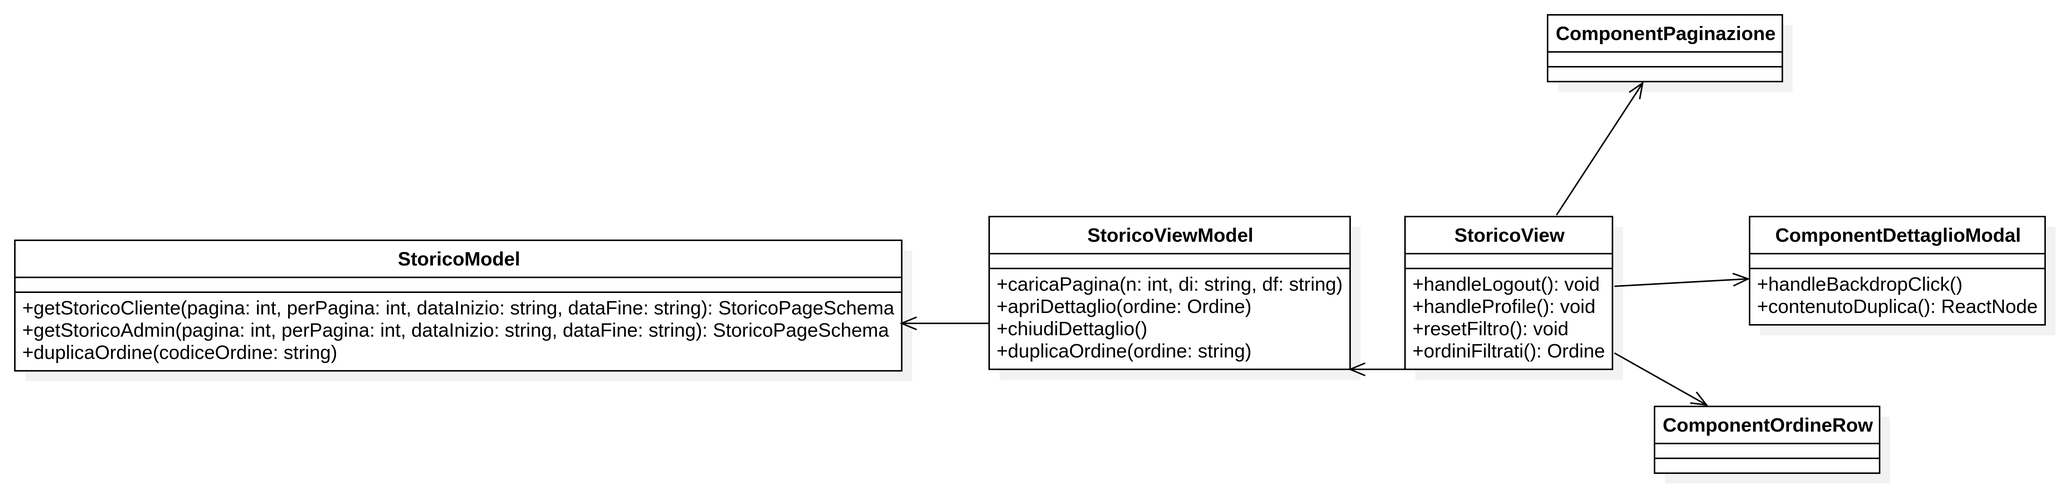
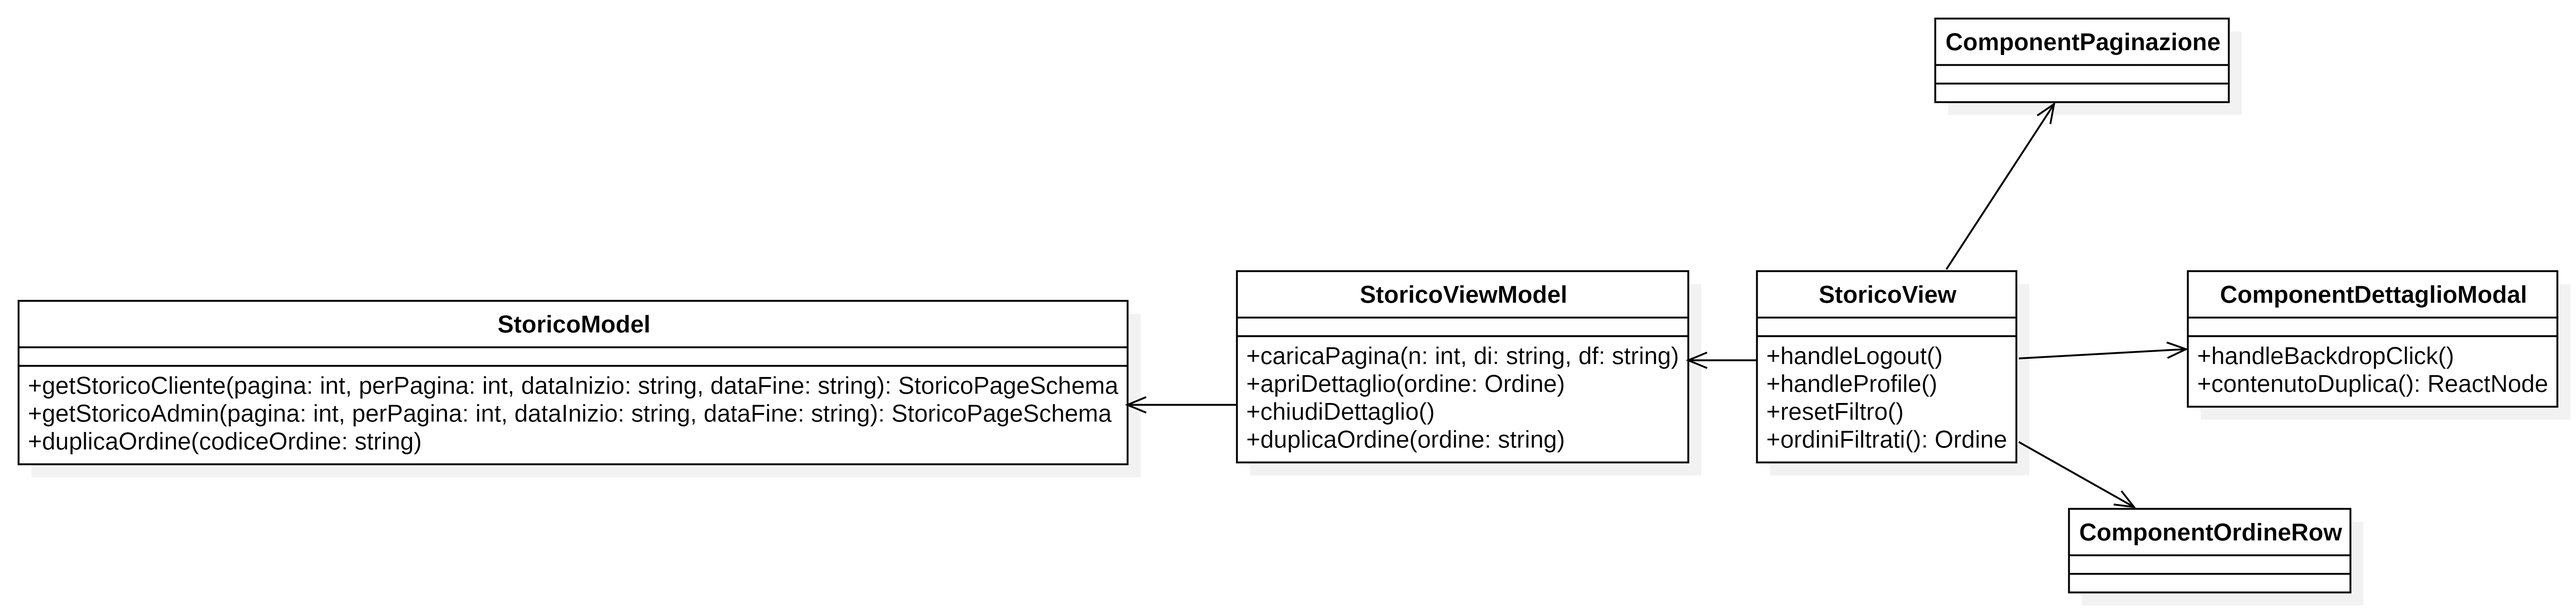
Terminato storico

diff --git a/src/PB/Documenti Esterni/Specifica Tecnica/content/diagrammi_classi/storico_backend.tex b/src/PB/Documenti Esterni/Specifica Tecnica/content/diagrammi_classi/storico_backend.tex
@@ -15,7 +15,7 @@ Per la definizione di ChatService, vedere \ref{chat_service}
 \subsubsubsection{StoricoController}
 \begin{figure}[H]
 	\centering 
-	\includegraphics[width=0.4\textwidth]{SpecificaTecnica/Storico/StoricoController}
+	\includegraphics[width=1\textwidth]{SpecificaTecnica/Storico/StoricoController}
 	\caption{Storico Ordini: StoricoController}
 \end{figure}
 
@@ -46,7 +46,7 @@ Delega la logica applicativa a \textit{StoricoService}, ottenuto tramite depende
 \subsubsubsection{StoricoService}
 \begin{figure}[H]
 	\centering 
-	\includegraphics[width=0.4\textwidth]{SpecificaTecnica/Storico/StoricoService}
+	\includegraphics[width=0.9\textwidth]{SpecificaTecnica/Storico/StoricoService}
 	\caption{Storico Ordini: StoricoService}
 \end{figure}
 
@@ -77,7 +77,7 @@ Si occupa di costruire le pagine di risposta, applicare i filtri per data e gest
 \subsubsubsection{StoricoAdapterPort}
 \begin{figure}[H]
 	\centering 
-	\includegraphics[width=0.4\textwidth]{SpecificaTecnica/Storico/StoricoAdapterPort}
+	\includegraphics[width=0.9\textwidth]{SpecificaTecnica/Storico/StoricoAdapterPort}
 	\caption{Storico Ordini: StoricoAdapterPort}
 \end{figure}
 
@@ -117,17 +117,12 @@ Riceve una sessione del database alla costruzione e la utilizza per istanziare \
 \paragraph{Metodi e funzioni}
 \begin{itemize}
 	\item \textbf{\_\_init\_\_(db: Session)} - si occupa di inizializzare l'adattatore ricevendo la sessione del database e istanziando un'istanza di tipo StoricoRepository
-	\item \textbf{get\_ordini\_by\_username(username: string, pagina: int, per\_pagina: int, data\_inizio: date, data\_fine: date): List[Ordine]} - delega a \textit{StoricoRepository} il recupero degli ordini paginati di un utente specifico.
-	\item \textbf{get\_all\_ordini(pagina: int, per\_pagina: int, data\_inizio: date, data\_fine: date): List[Ordine]} - delega a \textit{StoricoRepository} il recupero di tutti gli ordini paginati.
-	\item \textbf{get\_prodotti\_by\_ordine\_ids(ordine\_ids: List[int])} - delega a \textit{StoricoRepository} il recupero dei prodotti associati a una lista di identificatori di ordini.
-	\item \textbf{duplica\_ordine(codice\_ordine: string, username: string): Ordine} - delega a \textit{StoricoRepository} la duplicazione di un ordine esistente.
-	\item \textbf{get\_all\_products\_by\_username(username: string): OrdCliDet} - delega a \textit{StoricoRepository} il recupero dei prodotti acquistati da un utente con relativa frequenza.
-\end{itemize}
+	\end{itemize}
 
 \subsubsubsection{StoricoRepository}
 \begin{figure}[H]
 	\centering 
-	\includegraphics[width=0.4\textwidth]{SpecificaTecnica/Storico/StoricoRepository}
+	\includegraphics[width=0.9\textwidth]{SpecificaTecnica/Storico/StoricoRepository}
 	\caption{Storico Ordini: StoricoRepository}
 \end{figure}
 

diff --git a/src/PB/Documenti Esterni/Specifica Tecnica/content/diagrammi_classi/storico_frontend.tex b/src/PB/Documenti Esterni/Specifica Tecnica/content/diagrammi_classi/storico_frontend.tex
@@ -21,10 +21,10 @@ Utilizza i componenti \textit{ComponentOrdineRow}, \textit{ComponentDettaglioMod
 
 \paragraph{Metodi e funzioni}
 \begin{itemize}
-	\item \textbf{handleLogout(): void} - esegue il logout dell'utente chiamando l'endpoint \textit{/api/auth/logout} e reindirizza alla pagina principale.
-	\item \textbf{handleProfile(): void} - apre il pannello del profilo utente impostando \textit{profileOpen} a \textit{true}.
-	\item \textbf{resetFiltro(): void} - azzera i campi \textit{dataInizio} e \textit{dataFine} e ricarica la prima pagina senza filtri.
-	\item \textbf{ordiniFiltrati: Ordine[]} - restituisce la lista degli ordini filtrata in base alle date \textit{dataInizio} e \textit{dataFine} correntemente impostate.
+	\item \textbf{handleLogout()} - esegue il logout dell'utente chiamando l'endpoint \textit{/api/auth/logout} e reindirizza alla pagina principale.
+	\item \textbf{handleProfile()} - apre il pannello del profilo utente impostando \textit{profileOpen} a \textit{true}.
+	\item \textbf{resetFiltro()} - azzera i campi \textit{dataInizio} e \textit{dataFine} e ricarica la prima pagina senza filtri.
+	\item \textbf{ordiniFiltrati: Ordine} - restituisce la lista degli ordini filtrata in base alle date \textit{dataInizio} e \textit{dataFine} correntemente impostate.
 \end{itemize}
 
 \subsubsubsection{ComponentPaginazione}
@@ -59,7 +59,7 @@ La modale si chiude cliccando sul backdrop o sul pulsante di chiusura.
 
 \paragraph{Metodi e funzioni}
 \begin{itemize}
-	\item \textbf{handleBackdropClick(): void} - chiude la modale quando l'utente clicca sul backdrop.
+	\item \textbf{handleBackdropClick()} - chiude la modale quando l'utente clicca sul backdrop.
 	\item \textbf{contenutoDuplica(): ReactNode} - restituisce il contenuto della sezione duplicazione in base allo stato corrente: il pulsante iniziale, la richiesta di conferma oppure il messaggio di successo.
 \end{itemize}
 
@@ -82,7 +82,7 @@ L'unica interazione è il pulsante \textit{Dettaglio}, che invoca la callback \t
 \subsubsubsection{StoricoViewModel}
 \begin{figure}[H]
 	\centering 
-	\includegraphics[width=0.4\textwidth]{SpecificaTecnica/Storico/StoricoViewModel}
+	\includegraphics[width=0.6\textwidth]{SpecificaTecnica/Storico/StoricoViewModel}
 	\caption{Storico Ordini: StoricoViewModel}
 \end{figure}
 
@@ -104,7 +104,7 @@ Interagisce con \textit{StoricoModel} per il recupero e la duplicazione dei dati
 \subsubsubsection{StoricoModel}
 \begin{figure}[H]
 	\centering 
-	\includegraphics[width=0.4\textwidth]{SpecificaTecnica/Storico/StoricoModel}
+	\includegraphics[width=1\textwidth]{SpecificaTecnica/Storico/StoricoModel}
 	\caption{Storico Ordini: StoricoModel}
 \end{figure}
 
